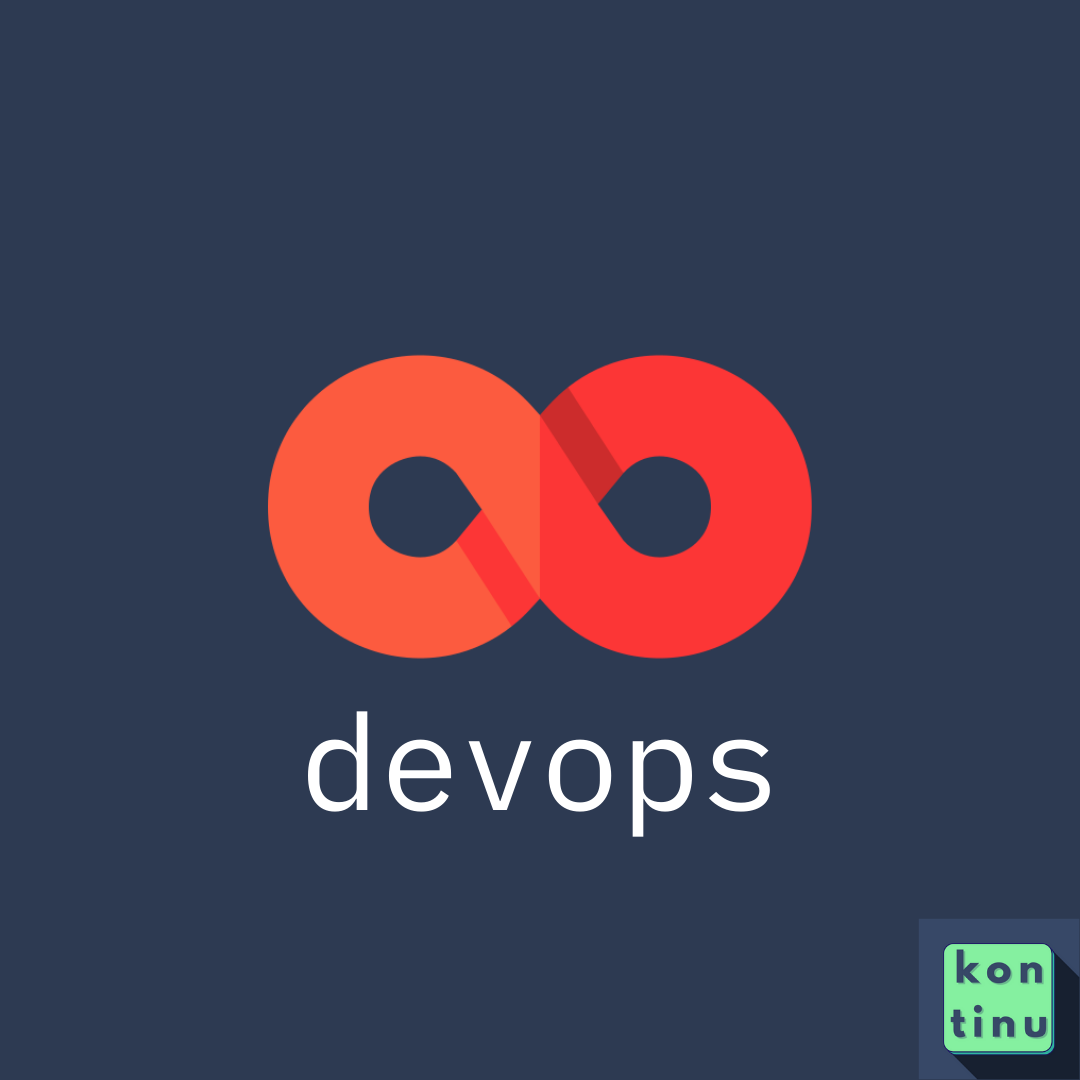
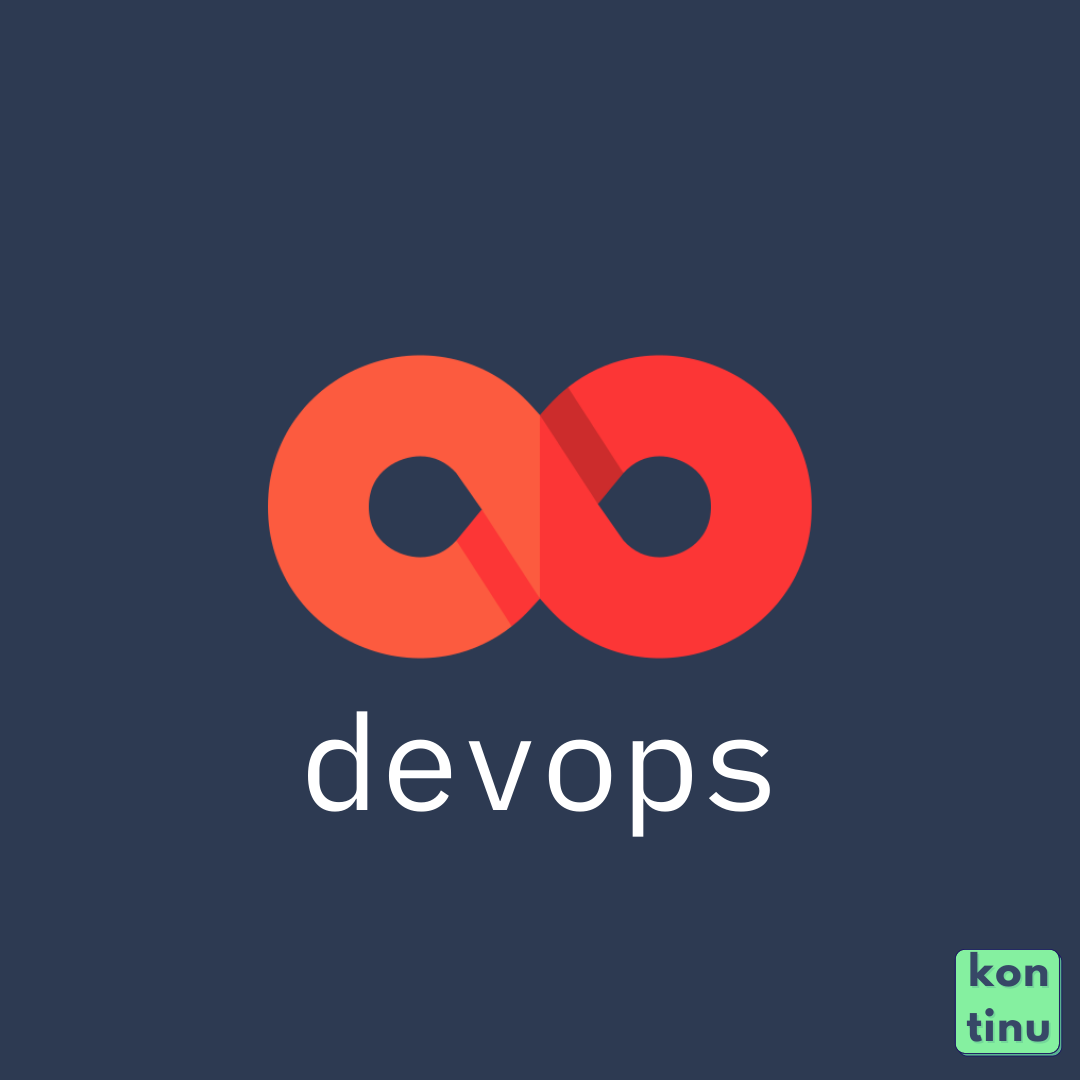
@jmarcos-cano - colors and new images

Changed region(s): [[0.8556, 0.8556, 1.0, 1.0]]

diff --git a/site/collections/_pages/index.html b/site/collections/_pages/index.html
@@ -2,7 +2,7 @@
 title: Home
 content_blocks:
   - _bookshop_name: hero
-    title: Devops, Cloud Native, Docker & Kubernetes +
+    title: Devops, Cloud Native, Docker & Kubernetes <mark>Bootcamps y Consultoría</mark>
     description_html: >-
       <p><b>Transforma </b>tu empresa o equipo de trabajo hacia una estrategia
       <strong>Cloud Native</strong> con nuestros <strong>bootcamps o

diff --git a/components/shared/styles/0-settings/_B_color-scheme.scss b/components/shared/styles/0-settings/_B_color-scheme.scss
@@ -34,3 +34,8 @@ $hr-color: $text-color;
 $tr-color: #f0f0f0;
 
 $syntax-highlighting-background: #f3f3f3;
+
+mark {
+  background-color: $light-green;
+  color: $background-color;
+}
